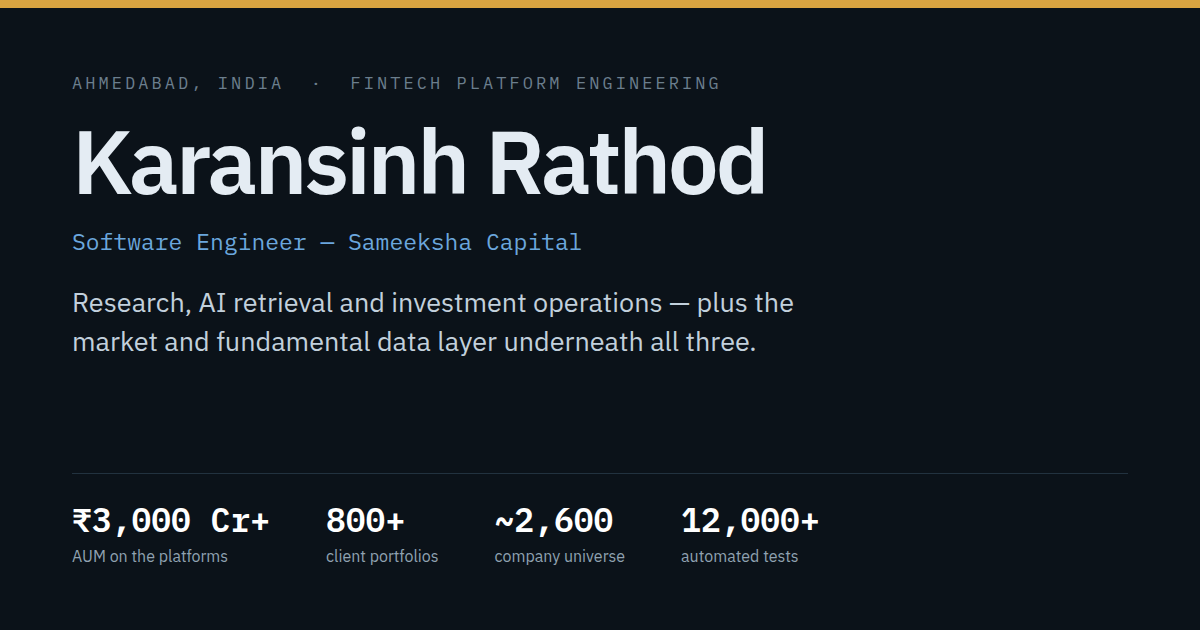
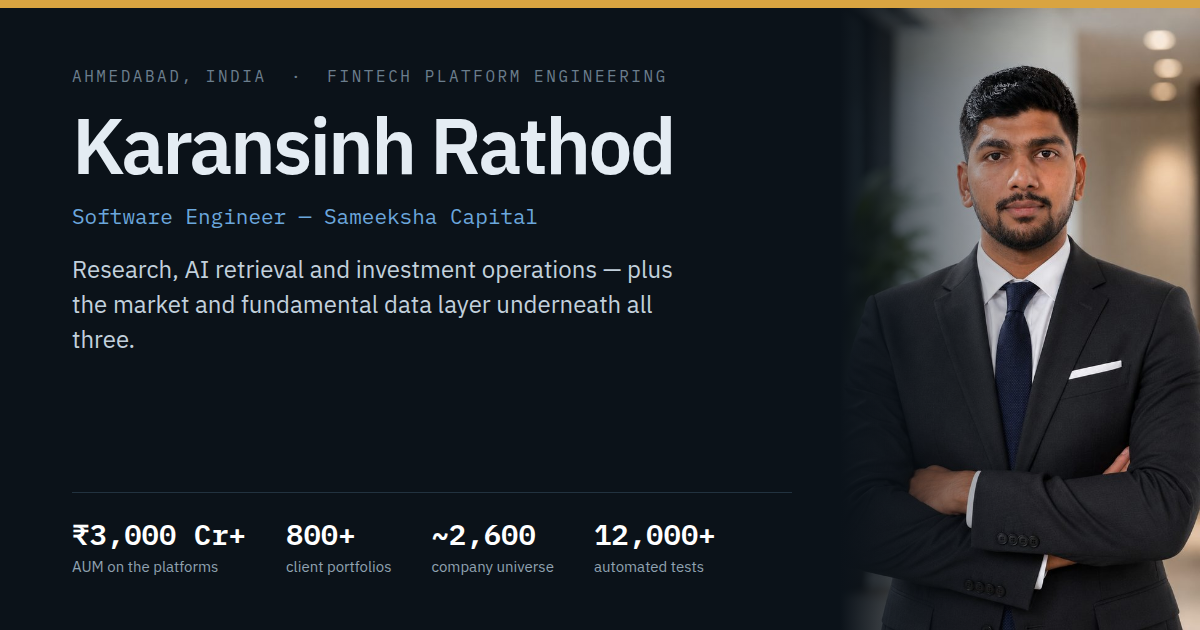
Add portrait to hero and link-preview card
formalphoto.png (1.9 MB) resized to 760px and re-encoded as progressive
JPEG at 76 KB. Hero becomes two columns above 900px and stacks below.
OG card rebuilt as a grid so the photo blend never overlaps the type.

diff --git a/index.html b/index.html
@@ -271,6 +271,21 @@ h1, h2, h3 { text-wrap: balance; margin: 0; }
 .btn-primary:hover { filter: brightness(1.1); color: #fff; }
 :root[data-theme="dark"] .btn-primary:hover { color: #06101a; }
 
+/* ---------- hero portrait ---------- */
+.hero-top { display: grid; gap: 30px; align-items: center; }
+.hero-copy { min-width: 0; }
+.portrait { margin: 0; max-width: 220px; }
+.portrait img {
+  display: block; width: 100%; height: auto;
+  border-radius: 5px;
+  border: 1px solid var(--rule);
+  box-shadow: var(--shadow);
+}
+@media (min-width: 900px) {
+  .hero-top { grid-template-columns: minmax(0, 1fr) 300px; gap: 56px; }
+  .portrait { max-width: none; }
+}
+
 /* ---------- stat strip ---------- */
 .stats {
   display: grid;
@@ -478,6 +493,8 @@ html { scroll-behavior: smooth; scroll-padding-top: 72px; }
 
   <!-- ===================== HERO ===================== -->
   <div class="hero">
+    <div class="hero-top">
+    <div class="hero-copy">
     <p class="eyebrow">Ahmedabad, India &nbsp;·&nbsp; Fintech Platform Engineering</p>
     <h1>Karansinh Rathod</h1>
     <p class="role">Software Engineer &nbsp;—&nbsp; Sameeksha Capital</p>
@@ -489,6 +506,13 @@ html { scroll-behavior: smooth; scroll-padding-top: 72px; }
       <a class="btn" href="resume.pdf">Résumé (PDF)</a>
       <a class="btn" href="mailto:rathodkaransinh125@gmail.com">Email me</a>
       <a class="btn" href="https://in.linkedin.com/in/karansinh-rathod-502383240" target="_blank" rel="noopener">LinkedIn</a>
+    </div>
+    </div>
+
+    <figure class="portrait">
+      <img src="portrait.jpg" width="760" height="1008"
+           alt="Karansinh Rathod, photographed in a dark suit and navy tie.">
+    </figure>
     </div>
 
     <div class="stats">
